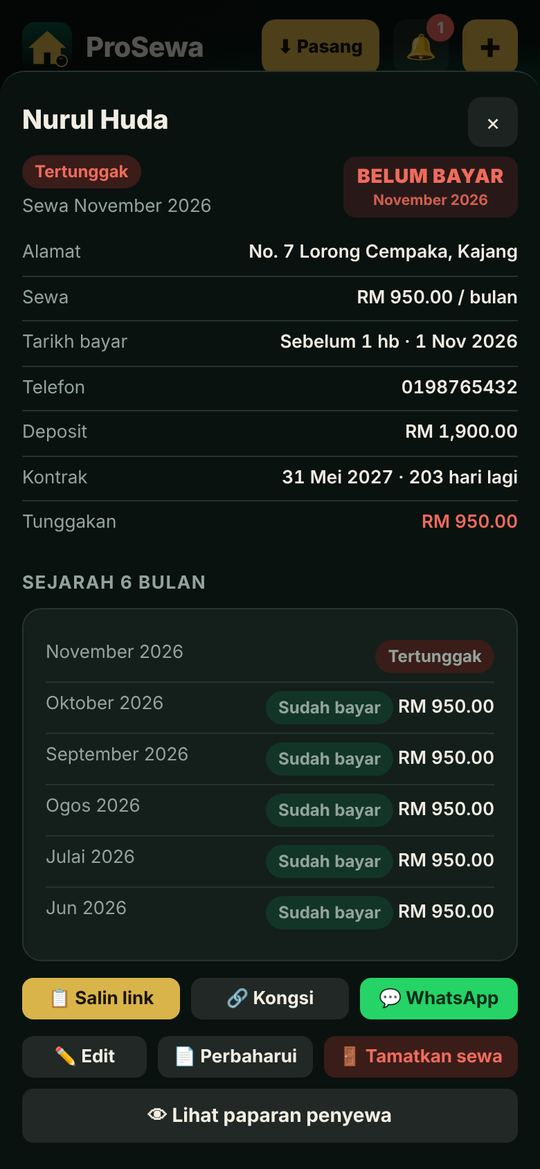
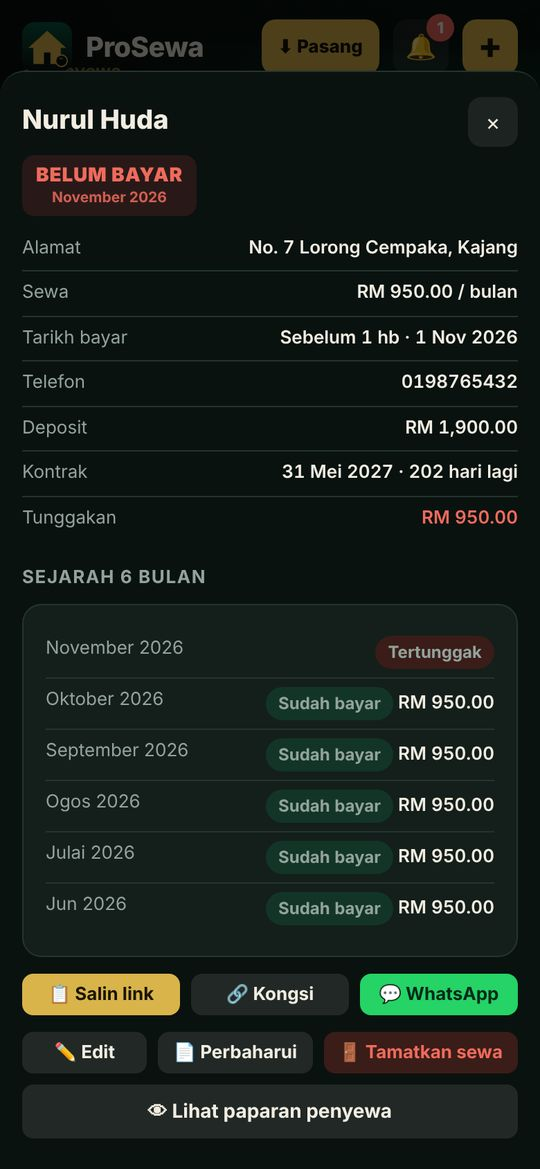
Manual & promo: bayar lebih/kurang, pilihan bulan & carian; gambar manual dikemas kini
Claude-Session: https://claude.ai/code/session_017f1VMKQwjxZcuJmQN7U4w8

diff --git a/index.html b/index.html
@@ -2022,8 +2022,8 @@ const MANUAL = [
   '<ol><li>Di tab <b>Penyewa</b>, tekan <b>🏠 Hartanah</b> → <b>Tambah rumah</b>. Pilih <b>Sewa bilik</b> (senaraikan bilik & sewa) atau <b>Seluruh rumah / unit</b>.</li><li>Bilik tanpa penyewa ditanda <b>kosong</b>, dengan bilangan hari dan sewa yang hilang sebulan. Tekan <b>+ Masukkan penyewa</b> terus dari bilik itu.</li><li>Penyewa sedia ada: tekan ✏ Edit dan pilih <b>Rumah / bilik</b>.</li><li>Bila sewa ditamatkan (🚪), bilik terus jadi kosong. Laporan cukai dikira ikut rumah.</li></ol><p>Pilihan sahaja: penyewa tanpa rumah tetap berfungsi seperti biasa.</p>',
   '<ol><li>In the <b>Tenants</b> tab, tap <b>🏠 Properties</b> → <b>Add property</b>. Choose <b>Room rental</b> (list the rooms & rent) or <b>Whole house / unit</b>.</li><li>Rooms without a tenant are marked <b>vacant</b>, with the number of days and the rent lost per month. Tap <b>+ Add tenant</b> straight from that room.</li><li>Existing tenants: tap ✏ Edit and choose a <b>Property / room</b>.</li><li>When a tenancy ends (🚪), the room becomes vacant automatically. The tax report is grouped by property.</li></ol><p>Optional: tenants without a property keep working as usual.</p>'],
  ['💳 Terima bayaran & resit', '💳 Payments & receipts',
-  '<ol><li>Penyewa bayar ke akaun / QR anda dan muat naik slip (<b>gambar atau PDF</b> dari app bank). Anda dapat notifikasi <b>🧾 Bukti bayaran baru</b>.</li><li>Buka tab <b>Status</b> (tab pertama) → tekan <b>🔍 Semak bayaran</b>. Semak bukti, jumlah berbanding sewa, kaedah & rujukan. Tanda <b>Saya telah semak bukti ini</b>, kemudian <b>Luluskan</b>, atau <b>Tolak</b> (dengan sebab).</li><li>Penyewa tak guna app dan cuma hantar bukti kepada anda? Di tab Status, tekan <b>📝 Bayaran manual</b> pada penyewa itu, pilih <b>Kaedah bayaran penyewa</b> (Pindahan bank, Touch \'n Go, Deposit tunai bank, Tunai) dan muat naik slip.</li><li><b>Terbayar lebih?</b> Lebihan dibawa ke bulan depan secara automatik sebagai <b>kredit</b>. Penyewa nampak nota bahawa lebihan akan ditolak bulan depan.</li><li>Resit boleh disimpan sebagai PDF atau dihantar melalui WhatsApp. No. resit berturutan dan tidak berulang.</li><li>Tersilap? Buka resit → <b>Batal resit</b> (dengan sebab). Resit sah tidak boleh dipadam, untuk rekod audit.</li></ol>',
-  '<ol><li>Tenants pay to your account / QR and upload the slip (<b>image or PDF</b> from their bank app). You get a <b>🧾 New payment proof</b> notification.</li><li>Open the <b>Status</b> tab (first tab) → tap <b>🔍 Review payment</b>. Check the proof, the amount against the rent, the method & reference. Tick <b>I have checked this proof</b>, then <b>Approve</b>, or <b>Reject</b> (with a reason).</li><li>Tenant doesn\'t use the app and just sends you proof? In the Status tab, tap <b>📝 Manual payment</b> for that tenant, choose the <b>Payment method by tenant</b> (Bank transfer, Touch \'n Go, Cash bank deposit, Cash by hand) and upload the slip.</li><li><b>Overpaid?</b> The extra is carried to next month automatically as <b>credit</b>. The tenant sees a note that it will be deducted next month.</li><li>Receipts can be saved as PDF or sent via WhatsApp. Receipt numbers run in sequence and are never reused.</li><li>Made a mistake? Open the receipt → <b>Void receipt</b> (with a reason). Valid receipts cannot be deleted, for audit purposes.</li></ol>'],
+  '<ol><li>Penyewa bayar ke akaun / QR anda dan muat naik slip (<b>gambar atau PDF</b> dari app bank). Anda dapat notifikasi <b>🧾 Bukti bayaran baru</b>.</li><li>Buka tab <b>Status</b> (tab pertama) → tekan <b>🔍 Semak bayaran</b>. Semak bukti, jumlah berbanding sewa, kaedah & rujukan. Tanda <b>Saya telah semak bukti ini</b>, kemudian <b>Luluskan</b>, atau <b>Tolak</b> (dengan sebab).</li><li>Penyewa tak guna app dan cuma hantar bukti kepada anda? Di tab Status, tekan <b>📝 Bayaran manual</b> pada penyewa itu, pilih <b>Kaedah bayaran penyewa</b> (Pindahan bank, Touch \'n Go, Deposit tunai bank, Tunai) dan muat naik slip.</li><li><b>Jumlah berbeza?</b> Semasa semak, tukar <b>Jumlah sebenar diterima</b> jika wang yang masuk tidak sama dengan yang dinyatakan penyewa. App terus tunjuk lebih atau kurang.</li><li><b>Bayar lebih:</b> lebihan jadi <b>kredit</b> dan ditolak daripada bayaran seterusnya. <b>Bayar kurang:</b> baki ditambah pada bayaran seterusnya. Bayaran baru menjelaskan bulan paling lama dahulu. Penyewa nampak nota ini sebelum bayar, dan resit tunjuk baki / kredit terkini.</li><li>Nak lihat bulan lain? Guna <b>‹ ›</b> atau senarai bulan di atas tab Status & Penyewa. Kotak <b>🔍 Cari</b> membantu cari penyewa dengan cepat.</li><li>Resit boleh disimpan sebagai PDF atau dihantar melalui WhatsApp. No. resit berturutan dan tidak berulang.</li><li>Tersilap? Buka resit → <b>Batal resit</b> (dengan sebab). Resit sah tidak boleh dipadam, untuk rekod audit.</li></ol>',
+  '<ol><li>Tenants pay to your account / QR and upload the slip (<b>image or PDF</b> from their bank app). You get a <b>🧾 New payment proof</b> notification.</li><li>Open the <b>Status</b> tab (first tab) → tap <b>🔍 Review payment</b>. Check the proof, the amount against the rent, the method & reference. Tick <b>I have checked this proof</b>, then <b>Approve</b>, or <b>Reject</b> (with a reason).</li><li>Tenant doesn\'t use the app and just sends you proof? In the Status tab, tap <b>📝 Manual payment</b> for that tenant, choose the <b>Payment method by tenant</b> (Bank transfer, Touch \'n Go, Cash bank deposit, Cash by hand) and upload the slip.</li><li><b>Different amount?</b> While reviewing, change <b>Actual amount received</b> if the money that came in differs from what the tenant stated. The app shows the extra or shortfall right away.</li><li><b>Paid more:</b> the extra becomes <b>credit</b> deducted from the next payment. <b>Paid less:</b> the balance is added to the next payment. New payments settle the oldest month first. Tenants see this note before paying, and receipts show the latest balance / credit.</li><li>Want another month? Use <b>‹ ›</b> or the month list at the top of the Status & Tenants tabs. The <b>🔍 Search</b> box helps you find a tenant quickly.</li><li>Receipts can be saved as PDF or sent via WhatsApp. Receipt numbers run in sequence and are never reused.</li><li>Made a mistake? Open the receipt → <b>Void receipt</b> (with a reason). Valid receipts cannot be deleted, for audit purposes.</li></ol>'],
  ['🔔 Peringatan & notifikasi', '🔔 Reminders & notifications',
   '<ul><li><b>Automatik:</b> penyewa dapat peringatan sebelum tarikh bayar dan bila sewa tertunggak (ikut Tetapan).</li><li><b>Manual:</b> di tab Status, tekan <b>🔔 Ingatkan</b> pada penyewa yang belum bayar. Notifikasi terus dihantar ke phone penyewa.</li><li>Notifikasi sampai walaupun app ditutup. Ikon app tunjuk <b>lencana</b> bila ada perkara belum disemak.</li><li>Tiada notifikasi? Tetapan → <b>🧪 Uji notifikasi</b>, dan pastikan notifikasi ProSewa dibenarkan dalam Tetapan phone.</li></ul>',
   '<ul><li><b>Automatic:</b> tenants get a reminder before the due date and when rent is overdue (based on Settings).</li><li><b>Manual:</b> in the Status tab, tap <b>🔔 Remind</b> on an unpaid tenant. A notification goes straight to their phone.</li><li>Notifications arrive even when the app is closed. The app icon shows a <b>badge</b> when something needs your attention.</li><li>No notifications? Settings → <b>🧪 Test notification</b>, and make sure ProSewa notifications are allowed in your phone settings.</li></ul>'],
@@ -2128,9 +2128,9 @@ function whatsNew() {
 // Gambar manual (shots/manual/*.jpg) + keterangan di bawah gambar, ikut susunan topik MANUAL
 const MANUAL_IMG = [
  [['m01a', 'Maklumat syarikat: logo, nama & alamat yang keluar pada resit.', 'Company details: the logo, name & address shown on receipts.'], ['m01b', 'Profil & maklumat bayaran: bank, no. akaun & QR DuitNow untuk penyewa.', 'Profile & payment details: bank, account no. & DuitNow QR for tenants.']],
- [['m02a', 'Tekan + di atas untuk buka borang tambah penyewa.', 'Tap + at the top to open the add-tenant form.'], ['m02b', 'Link khas penyewa: hantar via WhatsApp atau salin.', 'Private tenant link: send via WhatsApp or copy.'], ['m02c', 'Senarai penyewa dengan status bayaran & bulan.', 'Tenant list with payment status & month.'], ['m02d', 'Tekan nama: butiran, sejarah 6 bulan & semua tindakan.', 'Tap a name: details, 6-month history & all actions.']],
+ [['m02a', 'Tekan + di atas untuk buka borang tambah penyewa.', 'Tap + at the top to open the add-tenant form.'], ['m02b', 'Link khas penyewa: hantar via WhatsApp atau salin.', 'Private tenant link: send via WhatsApp or copy.'], ['m02c', 'Senarai penyewa dengan status bayaran. Pilih bulan dengan ‹ › atau senarai bulan.', 'Tenant list with payment status. Choose the month with ‹ › or the month list.'], ['m02d', 'Tekan nama: butiran, sejarah 6 bulan & semua tindakan.', 'Tap a name: details, 6-month history & all actions.']],
  [['m03', 'Hartanah: kadar penghunian, bilik kosong & sewa yang hilang.', 'Properties: occupancy, vacant rooms & lost rent.']],
- [['m04a', 'Tab Status: bukti bayaran baru di bahagian atas.', 'Status tab: new payment proofs at the top.'], ['m04b', 'Semak bayaran: tanda kotak, kemudian Lulus & hantar resit.', 'Review payment: tick the box, then Approve & send receipt.'], ['m04c', 'Resit bernombor dijana automatik.', 'A numbered receipt is created automatically.'], ['m04d', 'Bayaran manual untuk penyewa yang tak guna app.', 'Manual payment for tenants who don\'t use the app.']],
+ [['m04a', 'Tab Status: bukti bayaran baru di bahagian atas.', 'Status tab: new payment proofs at the top.'], ['m04b', 'Semak bayaran: semak jumlah sebenar diterima, tanda kotak, kemudian Lulus & hantar resit.', 'Review payment: check the actual amount received, tick the box, then Approve & send receipt.'], ['m04c', 'Resit bernombor dijana automatik.', 'A numbered receipt is created automatically.'], ['m04d', 'Bayaran manual untuk penyewa yang tak guna app.', 'Manual payment for tenants who don\'t use the app.']],
  [['m05', 'Belum bayar: Ingatkan, Bayaran manual atau WhatsApp.', 'Unpaid: Remind, Manual payment or WhatsApp.']],
  [['m06', 'Tamatkan sewa: potongan & baki deposit dikira automatik.', 'End tenancy: deductions & deposit balance are calculated automatically.']],
  [['m07', 'Tab Aduan: kemas kini status aduan penyewa.', 'Requests tab: update the status of tenant requests.']],

diff --git a/promo.html b/promo.html
@@ -142,7 +142,7 @@ body{-webkit-user-select:none;user-select:none;-webkit-touch-callout:none;-webki
   <div class="sh"><span class="k" data-bm>Ciri-ciri</span><span class="k" data-en>Features</span><h2><span data-bm>Semua yang tuan rumah perlukan, dalam satu app</span><span data-en>Everything a landlord needs, in one app</span></h2></div>
   <div class="feat">
     <div><i>👥</i><b data-bm>Link khas penyewa</b><b data-en>Private tenant link</b><span data-bm>Setiap penyewa ada link sendiri. Tiada login, terus boleh guna atau pasang app.</span><span data-en>Each tenant gets their own link. No login, use it or install the app instantly.</span></div>
-    <div><i>🧾</i><b data-bm>Resit automatik</b><b data-en>Automatic receipts</b><span data-bm>Penyewa muat naik slip (gambar atau PDF bank). Anda semak & lulus, resit bernombor dengan logo syarikat terus dihantar. Terbayar lebih? Baki dibawa ke bulan depan automatik.</span><span data-en>Tenants upload the slip (image or bank PDF). You review & approve and a numbered receipt with your logo is sent instantly. Overpaid? The extra carries to next month automatically.</span></div>
+    <div><i>🧾</i><b data-bm>Resit automatik</b><b data-en>Automatic receipts</b><span data-bm>Penyewa muat naik slip (gambar atau PDF bank). Anda semak & lulus, resit bernombor dengan logo syarikat terus dihantar. Bayar lebih atau kurang? Kredit / baki dibawa ke bayaran seterusnya automatik.</span><span data-en>Tenants upload the slip (image or bank PDF). You review & approve and a numbered receipt with your logo is sent instantly. Paid more or less? The credit / balance carries to the next payment automatically.</span></div>
     <div><i>🔔</i><b data-bm>Peringatan & notifikasi</b><b data-en>Reminders & notifications</b><span data-bm>Peringatan sewa automatik ke phone penyewa, dan makluman terus kepada anda.</span><span data-en>Automatic rent reminders to tenants' phones, and instant alerts to you.</span></div>
     <div><i>📊</i><b data-bm>Laporan kutipan & cukai</b><b data-en>Collection & tax reports</b><span data-bm>Kutipan bulanan, tunggakan, perbelanjaan, bil elektrik / air / IWK dan pendapatan bersih untuk e-Filing. PDF & Excel.</span><span data-en>Monthly collection, arrears, expenses, electricity / water / IWK bills and net income for e-Filing. PDF & Excel.</span></div>
     <div><i>📄</i><b data-bm>Kontrak & deposit</b><b data-en>Tenancy & deposit</b><span data-bm>Amaran kontrak hampir tamat, pembaharuan dan penyata pulangan deposit.</span><span data-en>Tenancy expiry alerts, renewals and deposit refund statements.</span></div>
@@ -197,7 +197,7 @@ body{-webkit-user-select:none;user-select:none;-webkit-touch-callout:none;-webki
     <details><summary><span data-bm>Penyewa perlu daftar atau download app?</span><span data-en>Do tenants need to sign up or download an app?</span></summary><p data-bm>Tidak. Penyewa cuma buka link khas yang anda hantar. Mereka boleh pasang sebagai app (Android APK atau dari browser) jika mahu.</p><p data-en>No. Tenants just open the private link you send. They can install it as an app (Android APK or from the browser) if they want.</p></details>
     <details><summary><span data-bm>Duit sewa masuk ke mana?</span><span data-en>Where does the rent money go?</span></summary><p data-bm>Terus ke akaun bank anda sendiri. Penyewa bayar seperti biasa (DuitNow, pindahan bank, QR) dan muat naik slip. ProSewa tidak memegang wang anda.</p><p data-en>Straight to your own bank account. Tenants pay as usual (DuitNow, bank transfer, QR) and upload the slip. ProSewa never holds your money.</p></details>
     <details><summary><span data-bm>Kalau penyewa tak pandai guna app?</span><span data-en>What if a tenant isn't good with apps?</span></summary><p data-bm>Penyewa cuma hantar bukti bayaran kepada anda. Tekan <b>Bayaran manual</b>, pilih kaedah (pindahan bank, Touch 'n Go, deposit tunai, tunai) dan muat naik slip. Resit tetap dijana dan masuk ke laporan.</p><p data-en>They just send you the proof. Tap <b>Manual payment</b>, choose the method (bank transfer, Touch 'n Go, cash deposit, cash) and upload the slip. A receipt is still issued and it goes into your reports.</p></details>
-    <details><summary><span data-bm>Kalau penyewa terbayar lebih?</span><span data-en>What if a tenant overpays?</span></summary><p data-bm>Lebihan dibawa ke bulan depan sebagai kredit secara automatik. Penyewa nampak nota bahawa lebihan akan ditolak daripada sewa bulan depan.</p><p data-en>The extra is carried to next month as credit automatically. The tenant sees a note that it will be deducted from next month's rent.</p></details>
+    <details><summary><span data-bm>Kalau penyewa bayar lebih atau kurang?</span><span data-en>What if a tenant pays more or less?</span></summary><p data-bm>Semasa semak, anda isi jumlah sebenar yang diterima. Lebihan jadi kredit dan ditolak daripada bayaran seterusnya; kekurangan ditambah pada bayaran seterusnya. Semuanya dikira automatik dalam status, resit dan laporan.</p><p data-en>When reviewing, you enter the actual amount received. Any extra becomes credit deducted from the next payment; any shortfall is added to the next payment. Everything is calculated automatically in the status, receipts and reports.</p></details>
     <details><summary><span data-bm>Boleh guna untuk bilik sewa atau banyak rumah?</span><span data-en>Does it work for rooms or multiple houses?</span></summary><p data-bm>Boleh. Daftar setiap rumah dan biliknya di tab Hartanah. Anda nampak bilik kosong, kadar penghunian dan sewa yang hilang, dan laporan cukai dipecahkan ikut rumah.</p><p data-en>Yes. Register each house and its rooms in the Properties tab. You'll see vacant rooms, occupancy and lost rent, and the tax report is broken down by property.</p></details>
     <details><summary><span data-bm>Boleh rekod bil air, elektrik, IWK & maintenance?</span><span data-en>Can I record water, electricity, IWK & maintenance bills?</span></summary><p data-bm>Boleh. Rekod beberapa bil sekali gus ikut rumah, atau tetapkan bil tetap (IWK, maintenance, internet) sebagai bil berulang yang direkod automatik setiap bulan. Semua bil ditolak dalam laporan pendapatan sewa bersih.</p><p data-en>Yes. Record several bills at once per property, or set fixed bills (IWK, maintenance, internet) as recurring bills recorded automatically every month. All bills are deducted in the net rental income report.</p></details>
     <details><summary><span data-bm>Penyewa boleh hantar slip PDF?</span><span data-en>Can tenants send a PDF slip?</span></summary><p data-bm>Boleh. Gambar, screenshot atau PDF dari app bank semuanya diterima. PDF ditukar kepada gambar supaya mudah disemak.</p><p data-en>Yes. Images, screenshots or PDFs from the bank app are all accepted. PDFs are converted to an image so they're easy to review.</p></details>
